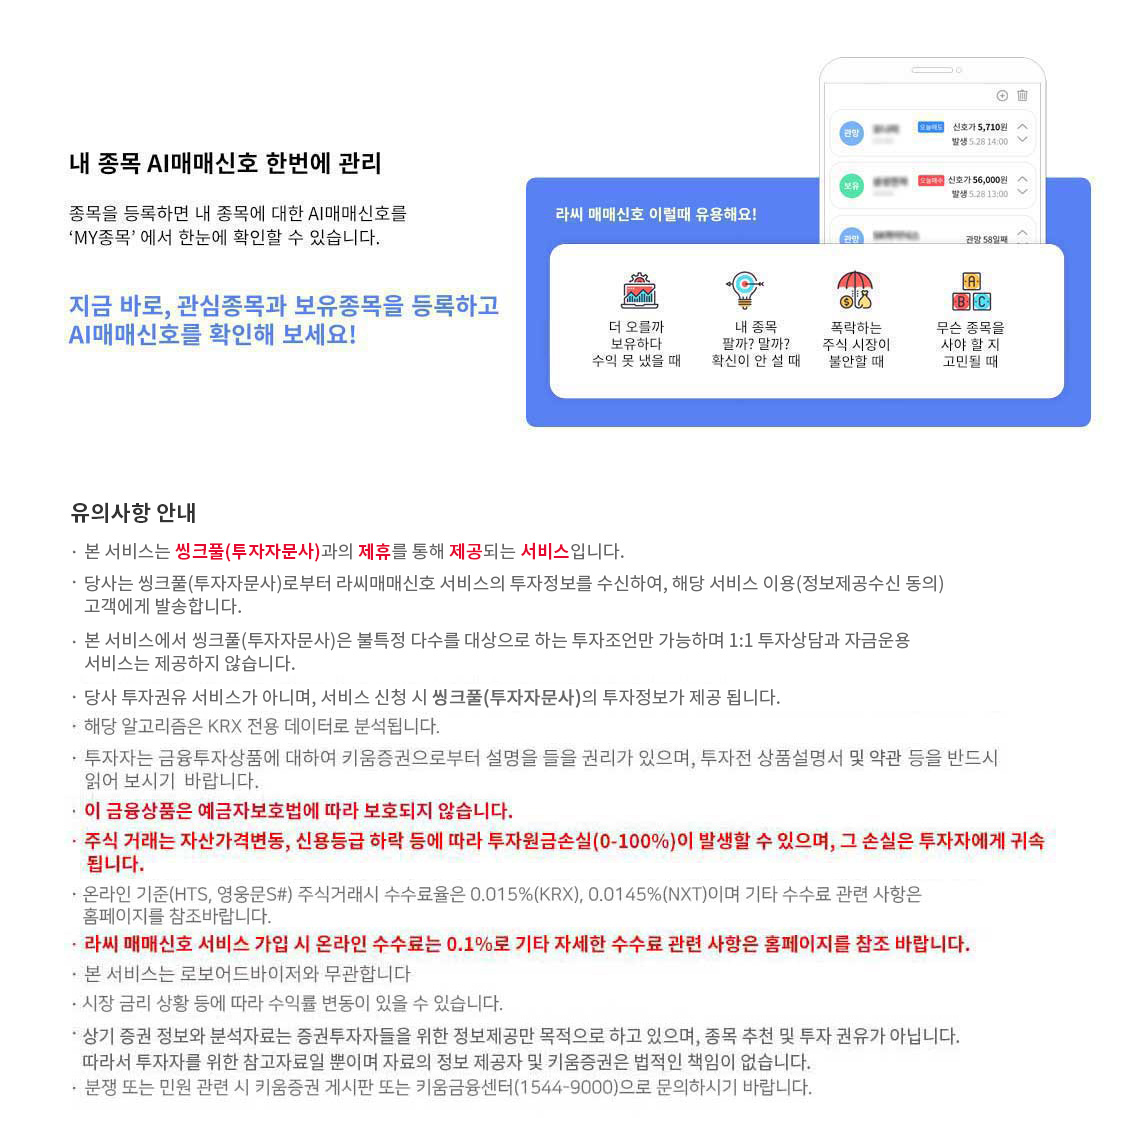
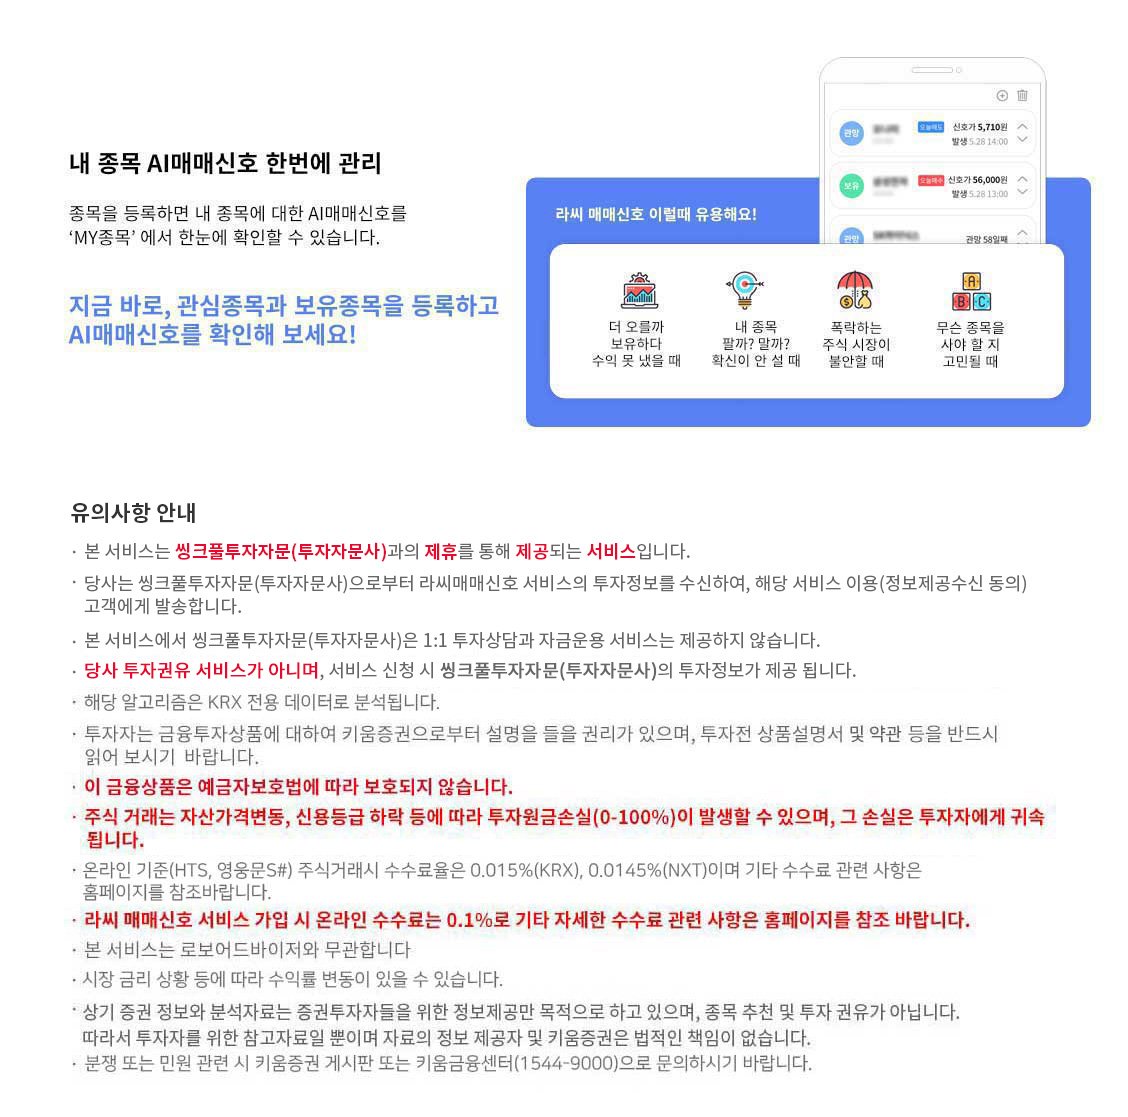
키움 라씨매매신호 유의사항 텍스트 수정

diff --git a/kiwoom_signal/intro.html b/kiwoom_signal/intro.html
@@ -52,9 +52,9 @@
             </div>
 
             <h4 class="main-stxt">
-              본 서비스는 씽크풀(투자자문사)과의 제휴를 통해 제공되는 서비스 입니다.<br>
-              <span>당사는 씽크풀(투자자문사)로부터 라씨매매신호 서비스의 투자정보를 수신하여, 해당서비스 이용고객(정보제공수신 동의)에게 발송합니다.</span><br>
-              본 서비스에서 씽크풀(투자자문사)은 불특정 다수를 대상으로 하는 투자조언을 제공하며 1:1투자상담과 자금운용 서비스는 제공하지 않습니다.<br>
+              본 서비스는 씽크풀투자자문(투자자문사)과의 제휴를 통해 제공되는 서비스 입니다.<br>
+              <span>당사는 씽크풀투자자문(투자자문사)으로부터 라씨매매신호 서비스의 투자정보를 수신하여, 해당서비스 이용고객(정보제공수신 동의)에게 발송합니다.</span><br>
+              본 서비스에서 씽크풀투자자문(투자자문사)은 1:1투자상담과 자금운용 서비스는 제공하지 않습니다.<br>
               본 서비스는 원금손실이 가능하며, 투자에 따른 손실은 투자자 본인에게 귀속됩니다.<br>
               서비스 가입 즉시 <strong>0.1%</strong> 수수료율 적용
             </h4>
@@ -351,16 +351,18 @@
                         대주 거래, ELW, K-OTC 수수료율은 당사 기본 주식 수수료율과 동일 합니다
                       </li>
                       <li>
-                        본 서비스는 <span class="up bold">씽크풀(투자자문사)</span>과의 <span class="up bold">제휴</span>를 통해 <span
-                          class="up bold">제공</span>되는 <span class="up bold">서비스</span> 입니다.
+                        본 서비스는 <span class="up bold">씽크풀투자자문(투자자문사)</span>과의 <span class="up bold">제휴</span>를 통해 <span class="up bold">제공</span>되는 <span class="up bold">서비스</span> 입니다.
                       </li>
                       <li>
-                        당사는 씽크풀(투자자문사)로부터 라씨매매신호 서비스의 투자정보를 수신하여,
+                        당사는 씽크풀투자자문(투자자문사)으로부터 라씨매매신호 서비스의 투자정보를 수신하여,
                         해당 서비스 이용(정보제공수신 동의) 고객에게 발송합니다.
                       </li>
                       <li>
-                        본 서비스에서 씽크풀(투자자문사)은 불특정 다수를 대상으로 하는 투자조언만 가능하며
+                        본 서비스에서 씽크풀투자자문(투자자문사)은
                         1:1 투자상담과 자금운용 서비스는 제공하지 않습니다.
+                      </li>
+                      <li>
+                        <span class="up bold">당사 투자권유서비스가 아니며,</span> 서비스 신청시 씽크풀투자자문(투자자문사)의 종목추천 투자 정보가 제공됩니다.
                       </li>
                       <li>
                         해당 알고리즘은 KRX 전용 데이터로 분석됩니다.
@@ -379,8 +381,8 @@
                           귀속됩니다.</span>
                       </li>
                       <li>
-                        <span class="up bold">본 서비스 가입 시 온라인 수수료는 0.1%</span>로 기타 자세한 사항은 <span class="up bold">홈페이지>
-                          서비스안내>수수료/증거금>주식</span>을 참조해주시기 바랍니다.
+                        <span class="up bold">본 서비스 가입 시 온라인 수수료는 0.1%</span>로 기타 자세한 사항은 <span class="up bold">홈페이지&gt;
+                          서비스안내&gt;수수료/증거금&gt;주식</span>을 참조해주시기 바랍니다.
                       </li>
                       <li>
                         본 서비스는 로보어드바이저와 무관합니다.

diff --git a/kiwoom_signal/intro_pc.html b/kiwoom_signal/intro_pc.html
@@ -178,13 +178,13 @@
 
           <span><em class="c_red bold">- 가입계좌에 거래하는 모든 종목에 대해 0.1% 적용</em><br>(대주거래 : 온라인 0.1%, 오프라인 0.3%)</span>
           <span class="c_red bold">- ELW, K-OTC 수수료율은 당사 기본 주식 수수료율과 동일 합니다.</span>
-          <span class="bold">- 본 서비스는 <em class="c_red bold">씽크풀(투자자문사)</em>과의 <em class="c_red bold">제휴</em>를 통해 <em class="c_red bold">제공</em>되는 <em class="c_red bold">서비스</em>입니다.</span>
-          <span class="bold">- 당사 투자권유 서비스가 아니며, 서비스 신청 시 씽크풀(투자자문사)의 투자정보가 제공됩니다.</span>
+          <span class="bold">- 본 서비스는 <em class="c_red bold">씽크풀투자자문(투자자문사)</em>과의 <em class="c_red bold">제휴</em>를 통해 <em class="c_red bold">제공</em>되는 <em class="c_red bold">서비스</em>입니다.</span>
+          <span class="bold">- <em class="c_red bold">당사 투자권유 서비스가 아니며,</em> 서비스 신청 시 씽크풀투자자문(투자자문사)의 투자정보가 제공됩니다.</span>
           <span class="bold">- 라씨 매매신호는 투자정보를 제공하는 서비스로, 투자에 참고하셔서 활용하시기 바라며, <em class="c_red">투자에 따른 손실은 투자자 본인에게
               귀속</em> 됩니다.</span>
           <span class="bold"><em class="c_red">- 본 서비스 가입 시 온라인 수수료는 0.1%</em>로 기타 자세한 사항은 <em class="c_red">홈페이지 &gt;
               서비스안내 &gt; 수수료/증거금 &gt; 주식</em> 을 참조해 주시기 바랍니다.</span>
-          <span class="bold">- 본서비스에서 제공하는 데이터는 당사의 공식적인 조사분석자료를 공표하는 것은 아닙니다.</span>
+          <span class="bold">- 본 서비스에서 제공하는 데이터는 당사의 공식적인 조사분석자료를 공표하는 것은 아닙니다.</span>
         </p>
       </div>
       <!-- //수수료율 -->
